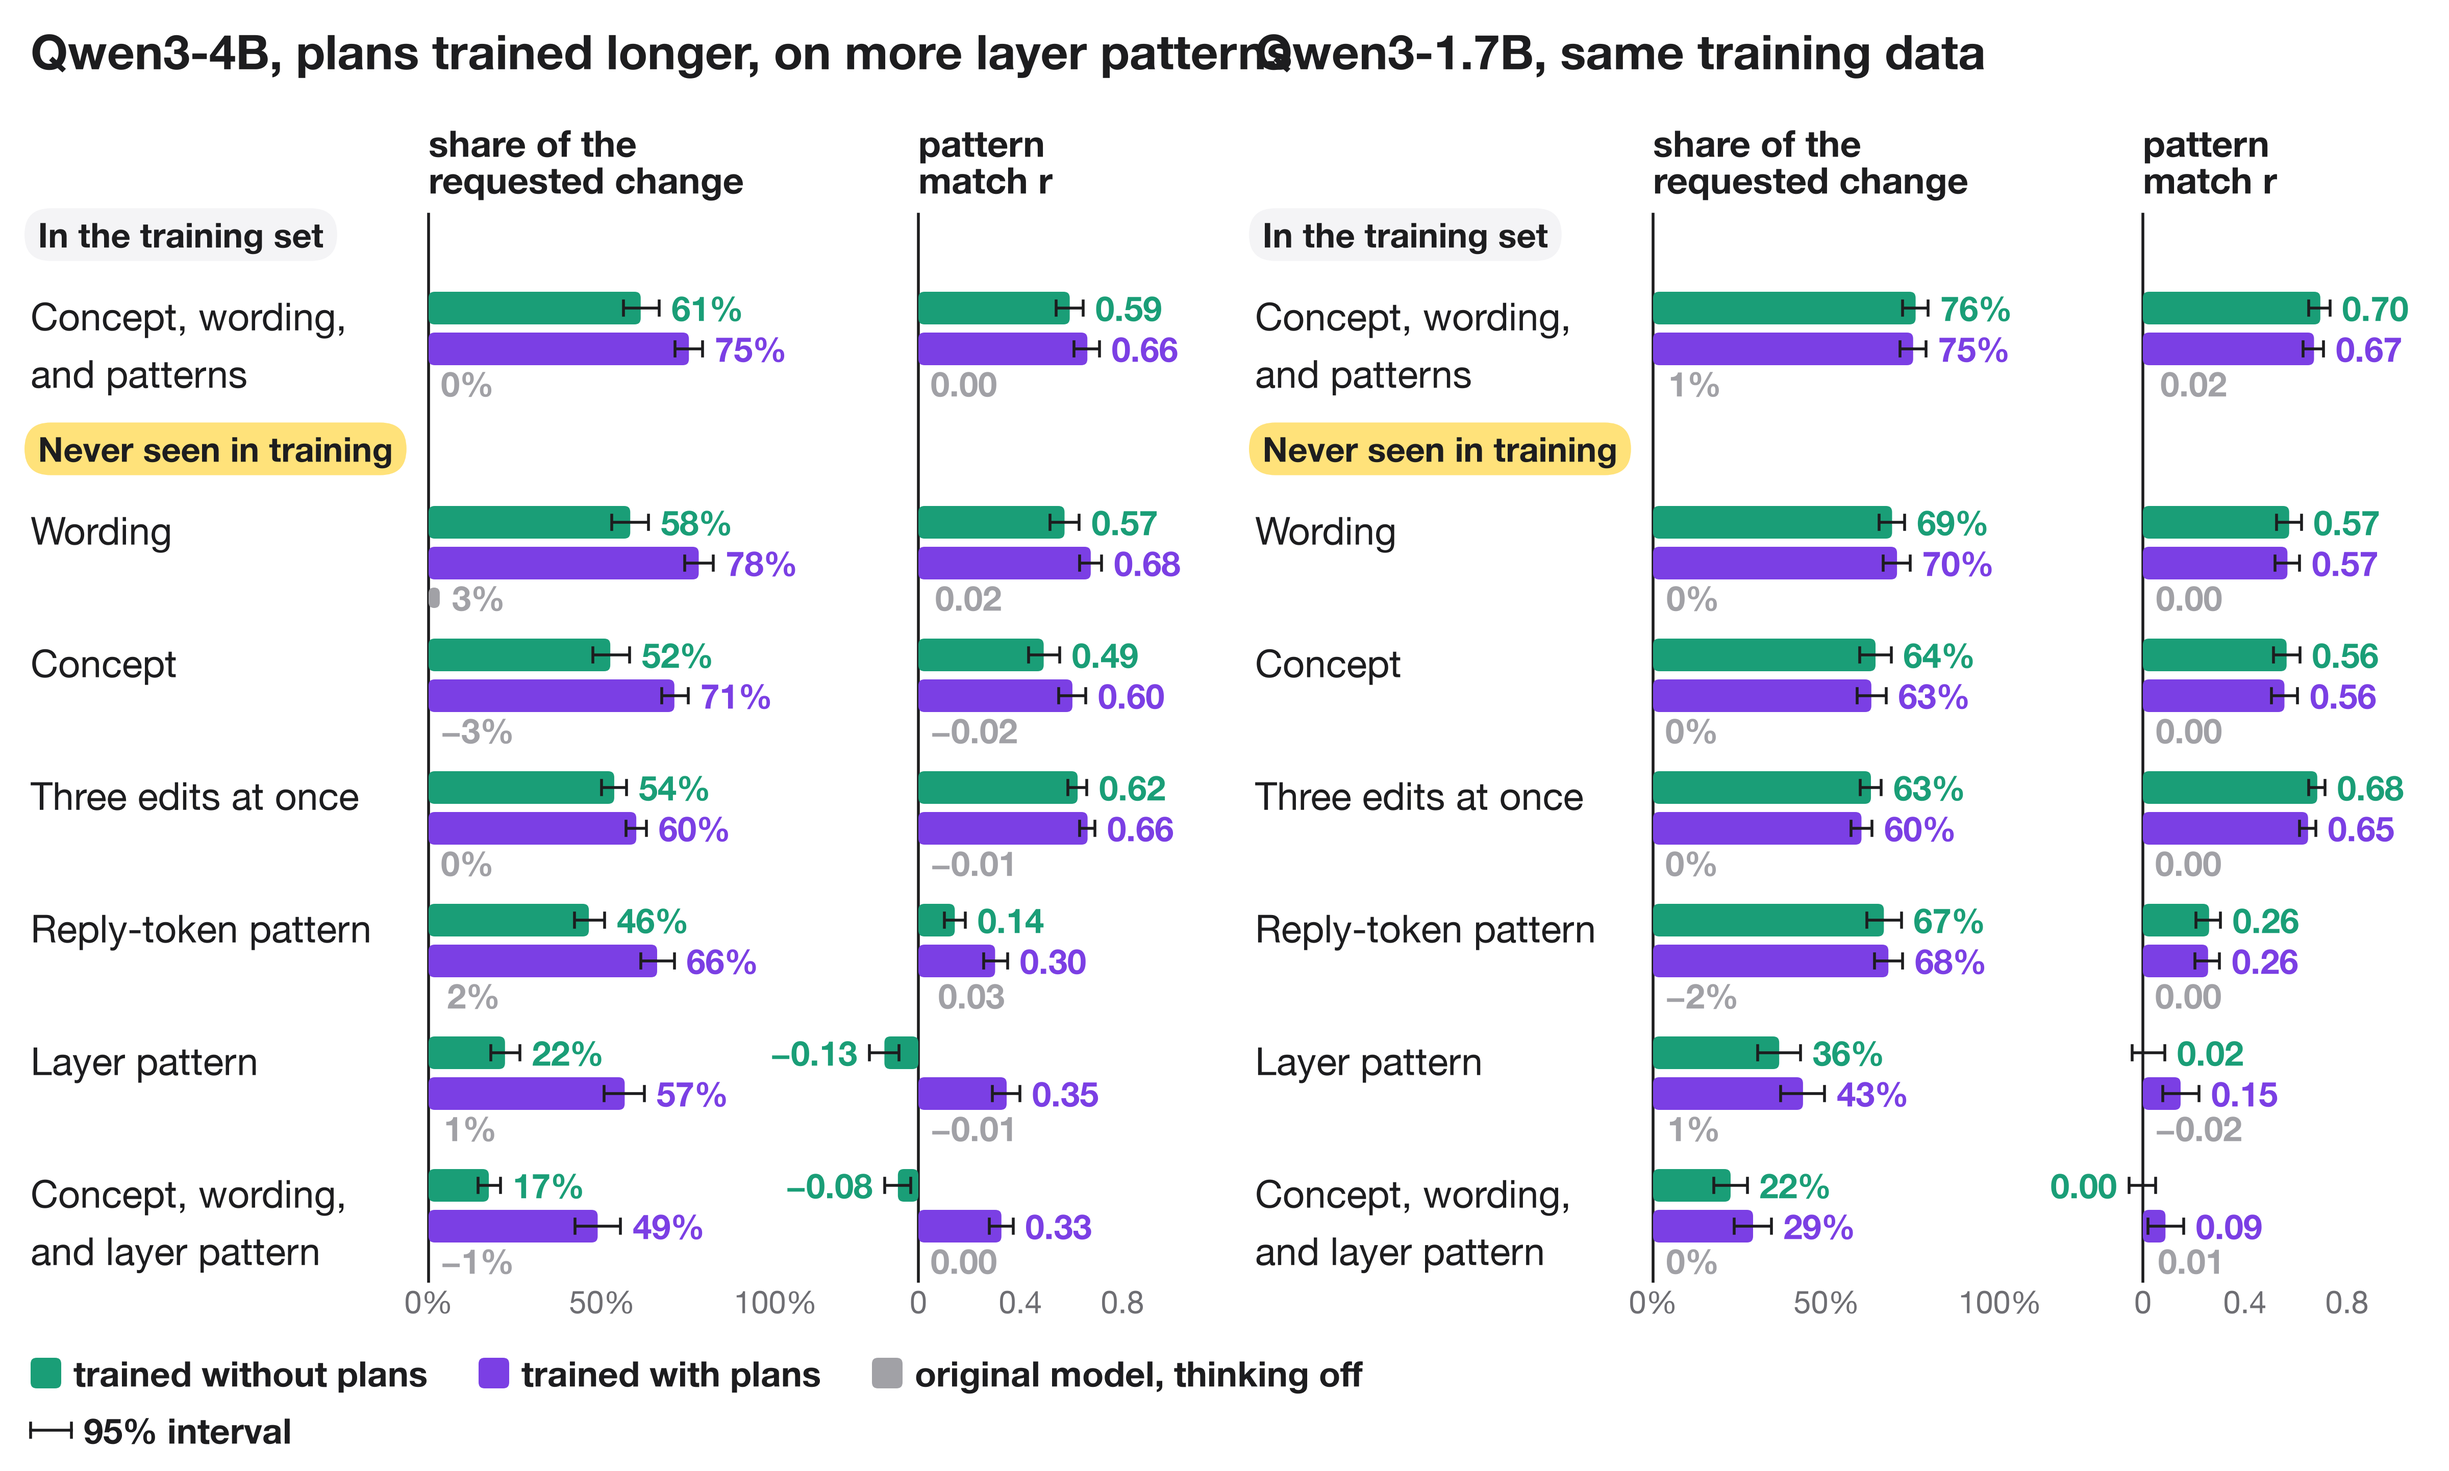
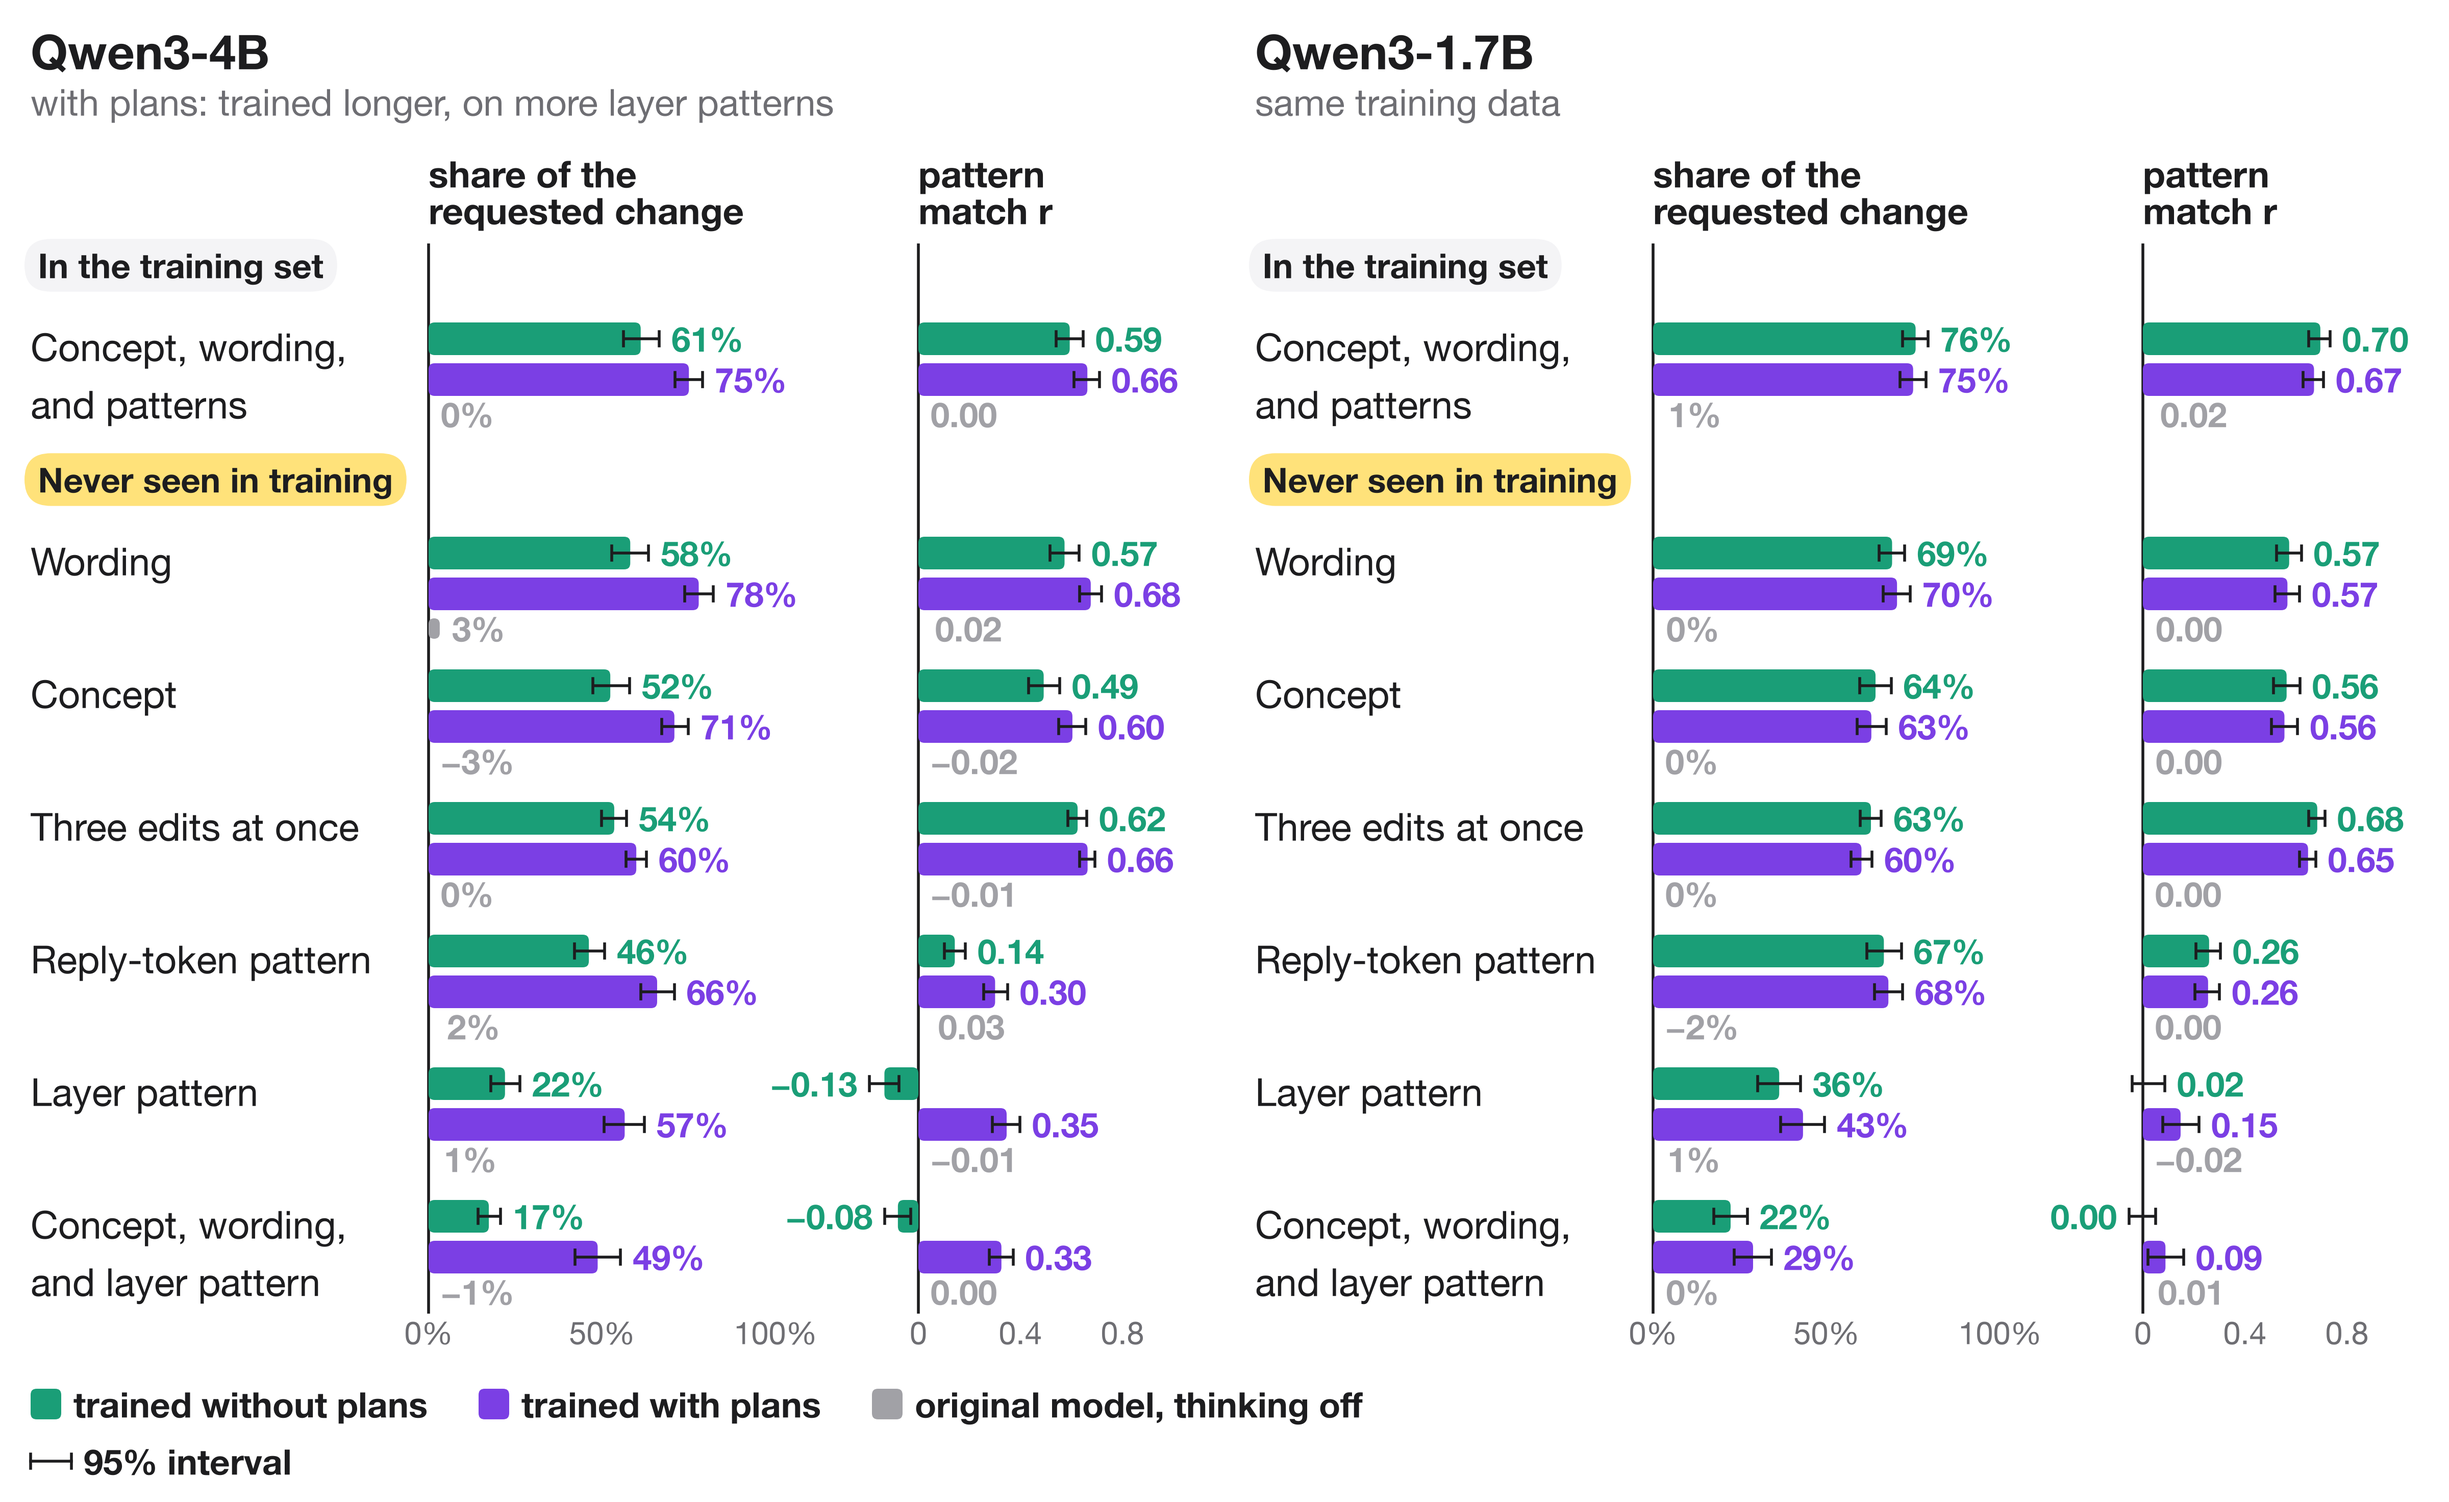
No-plan figure: headers on two lines

diff --git a/figures/make_figures.py b/figures/make_figures.py
@@ -948,13 +948,14 @@ def noplan():
     adapter for 2500 steps on the same data without and with plans (eval_n17.json, eval_p17.json)."""
     E4, N4, N17, P17 = (load(f"eval_{a}.json") for a in ("r4", "q4c", "n17", "p17"))
     fig, ax = canvas(3000, 2 * W)
-    blocks = ((0, "Qwen3-4B, plans trained longer, on more layer patterns",
+    blocks = ((0, ("Qwen3-4B", "with plans: trained longer, on more layer patterns"),
                [(N4, None, TEAL, 32), (E4, None, PURPLE, 32), (E4, "orig", ORIG, 20)]),
-              (W, "Qwen3-1.7B, same training data",
+              (W, ("Qwen3-1.7B", "same training data"),
                [(N17, None, TEAL, 32), (P17, None, PURPLE, 32), (P17, "orig", ORIG, 20)]))
     for ox, head, arms in blocks:
-        write(ax, ox + 30, 2950, head, 34, True, ha="left")
-        y = score_block(ax, ox, 2880, arms, gap=8)
+        write(ax, ox + 30, 2950, head[0], 34, True, ha="left")
+        write(ax, ox + 30, 2900, head[1], 26, color=MUTED, ha="left")
+        y = score_block(ax, ox, 2850, arms, gap=8)
     y = legend(ax, 30, y - 70, (("trained without plans", TEAL), ("trained with plans", PURPLE),
                                 ("original model, thinking off", ORIG)))
     crop(fig, ax, y - 40, 3000)
